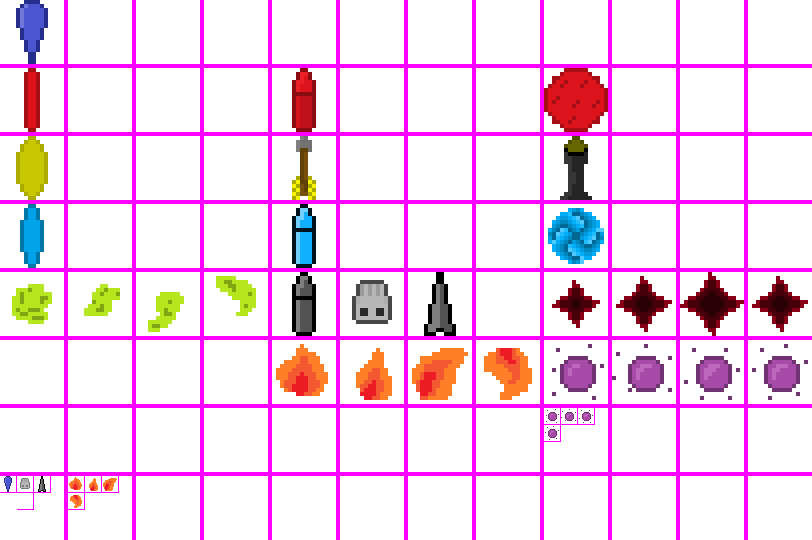
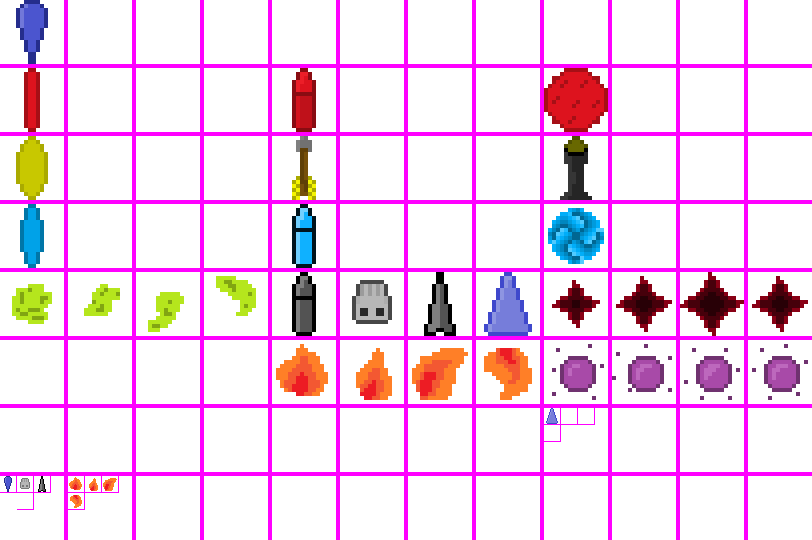
storm orb

Changed region(s): [[0.585, 0.5037, 0.6773, 0.6222], [0.6773, 0.7407, 0.7389, 0.8]]

diff --git a/app/index.html b/app/index.html
@@ -74,6 +74,7 @@
 	<script src="src/gameplay/entities/projectiles/monsterProjectiles/bombotShrapnelProjectile.js"></script>
 	<script src="src/gameplay/entities/projectiles/monsterProjectiles/fireTowerFireProjectile.js"></script>
 	<script src="src/gameplay/entities/projectiles/monsterProjectiles/dartTowerProjectile.js"></script>
+	<script src="src/gameplay/entities/projectiles/monsterProjectiles/stormOrbSpikeProjectile.js"></script>
 	<script src="src/gameplay/entities/projectiles/projectileSpawner.js"></script>
 	<script src="src/gameplay/entities/particles/_particle.js"></script>
 	<script src="src/gameplay/entities/particles/bloodParticle.js"></script>
@@ -101,6 +102,7 @@
 	<script src="src/gameplay/entities/monsters/fireTower.js"></script>
 	<script src="src/gameplay/entities/monsters/dartTower.js"></script>
 	<script src="src/gameplay/entities/monsters/mine.js"></script>
+	<script src="src/gameplay/entities/monsters/stormOrb.js"></script>
 	<script src="src/gameplay/entities/monsters/monsterFactory.js"></script>
 	<script src="src/gameplay/entities/items/_item.js"></script>
 	<script src="src/gameplay/entities/items/healthKit.js"></script>
@@ -135,6 +137,8 @@
 	<script src="src/gameplay/actions/monsterActions/mineDelayedExplosion.js"></script>
 	<script src="src/gameplay/actions/monsterActions/fireTowerFlamethrowerAction.js"></script>
 	<script src="src/gameplay/actions/monsterActions/dartTowerAttack.js"></script>
+	<script src="src/gameplay/actions/monsterActions/genericMonsterDash.js"></script>
+	<script src="src/gameplay/actions/monsterActions/stormOrbSpikeAttack.js"></script>
 	<!-- 	stages 		-->
 	<script src="src/gameplay/stage/stageLoader.js"></script>
 	<script src="src/gameplay/stage/stage.js"></script>

diff --git a/app/src/gameplay/entities/monsters/stormOrb.js b/app/src/gameplay/entities/monsters/stormOrb.js
@@ -1,0 +1,52 @@
+"use strict";
+class StormOrb extends _Monster {
+
+    constructor(){
+        super();
+        this.tileX = Util.randInt(4, 7);
+        this.tileY = 2;
+        this.maxHp = Util.randInt(30, 40);
+        this.displaySize = Util.randFloat(0.9, 1.1);
+        this.defence = 35;
+        this.speed = Util.randFloat(0.015, 0.017);
+        this.opacity = 0.8;
+
+        this.dash = new GenericMonsterDash(this, 0.2, 12, 1200);
+        this.spikeAttack = new StormOrbSpikeAttack(this);
+    }
+
+    _onDamaged(d){
+        super._onDamaged(d);
+        ParticleSpawner.createExplosion(CyanSparkParticle, this.x, this.y, Util.randInt(0, d/2));
+
+    }
+
+    _onExpire(){
+        super._onExpire();
+        ParticleSpawner.createExplosion(CyanSparkParticle, this.x, this.y, Util.randInt(20, 30));
+    }
+
+    _doExist(thisEntity){
+        var p = StageManager.currentStage.player;
+        var dir = thisEntity.getDirectionToPoint(p.x, p.y);
+        var dist = thisEntity.getDistanceToPoint(p.x, p.y);
+
+        if(Util.chance(0.05)){
+            ParticleSpawner.createExplosion(CyanSparkParticle, thisEntity.x, thisEntity.y, Util.randInt(2, 5));
+        }
+        
+        if(dist < 9) {
+            thisEntity.dash.execute(dir + Util.randFloat(-110, 110));
+            thisEntity.spikeAttack.execute();
+        }
+
+        if(dist > 4) {
+            thisEntity.travel(dir);
+        } 
+
+        thisEntity.turn(dir);
+        thisEntity.checkForInWall();
+        thisEntity.doCheckCollisions();
+    }
+
+}

diff --git a/app/src/gameplay/actions/monsterActions/ghostDrainAttack.js b/app/src/gameplay/actions/monsterActions/ghostDrainAttack.js
@@ -7,15 +7,9 @@ class GhostDrainAttack extends _Action {
     }
 
     onSuccess(){
-        this.doOnDelay(a => {
-            ProjectileSpawner.spawn(GhostDrainProjectile, a.user, a.user.x, a.user.y, a.user.direction);
-        }, 50);
-        this.doOnDelay(a => {
-            ProjectileSpawner.spawn(GhostDrainProjectile, a.user, a.user.x, a.user.y, a.user.direction + 15);
-        }, 200);
-        this.doOnDelay(a => {
-            ProjectileSpawner.spawn(GhostDrainProjectile, a.user, a.user.x, a.user.y, a.user.direction - 15);
-        }, 200);
+        ProjectileSpawner.spawn(GhostDrainProjectile, this.user, this.user.x, this.user.y, this.user.direction);
+        ProjectileSpawner.spawn(GhostDrainProjectile, this.user, this.user.x, this.user.y, this.user.direction + 15);
+        ProjectileSpawner.spawn(GhostDrainProjectile, this.user, this.user.x, this.user.y, this.user.direction - 15);
     }
 
 }

diff --git a/app/src/gameplay/entities/projectiles/monsterProjectiles/stormOrbSpikeProjectile.js b/app/src/gameplay/entities/projectiles/monsterProjectiles/stormOrbSpikeProjectile.js
@@ -1,0 +1,26 @@
+"use strict";
+class StormOrbSpikeProjectile extends _DamagingProjectile {
+
+    constructor(parentEntity, direction, x, y){
+        super(parentEntity, direction, x, y);
+
+        this.speed = 0.12
+        this.minDmg = 10;
+        this.maxDmg = 15;
+        this.duration = Util.randInt(70, 90);
+        this.accuracy = 97;
+    
+        this.tileX = 7;
+        this.tileY = 4;
+        
+        this.collisionSize = 0.2;
+        this.displaySize = 0.6;
+        this.collidesPlayer = true;
+    }
+
+    _onExpire(){
+        super._onExpire();
+        ParticleSpawner.createExplosion(CyanSparkParticle,  this.x, this.y, Util.randInt(5, 10));
+    }
+
+}

diff --git a/app/src/gameplay/entities/monsters/monsterFactory.js b/app/src/gameplay/entities/monsters/monsterFactory.js
@@ -15,6 +15,7 @@ const MonsterFactory = {
         10: FireTower,
         11: DartTower,
         12: Mine,
+        13: StormOrb,
 
         default : Zombie
     },
@@ -27,7 +28,7 @@ const MonsterFactory = {
     getMonster(id, x, y){
         
         // TODO REMOVE TEST
-        id = Util.randInt(0, 12);
+        id = Util.randInt(0, 13);
 
         var monsterClass = this._monsterTypeDict[id] ? this._monsterTypeDict[id] : this._monsterTypeDict.default;
         var monster = new monsterClass();

diff --git a/app/src/gameplay/actions/monsterActions/stormOrbSpikeAttack.js b/app/src/gameplay/actions/monsterActions/stormOrbSpikeAttack.js
@@ -1,0 +1,14 @@
+"use strict";
+class StormOrbSpikeAttack extends _Action {
+
+    constructor(user){
+        super(user);
+        this.cooldownDuration = 3000;
+    }
+
+    onSuccess(){
+        ProjectileSpawner.spawn(StormOrbSpikeProjectile, this.user, this.user.x, this.user.y, this.user.direction + 5);
+        ProjectileSpawner.spawn(StormOrbSpikeProjectile, this.user, this.user.x, this.user.y, this.user.direction - 5);
+    }
+
+}

diff --git a/app/src/gameplay/actions/monsterActions/genericMonsterDash.js b/app/src/gameplay/actions/monsterActions/genericMonsterDash.js
@@ -1,0 +1,16 @@
+"use strict";
+class GenericMonsterDash extends _Action {
+
+    constructor(user, speed, duration, cooldown){
+        super(user);
+        this.speed = speed;
+        this.duration = duration;
+        this.cooldownDuration = cooldown;
+    }
+
+    onSuccess(...args){
+        // args[0] - direction 
+        this.user.applyPushback(args[0], this.speed, this.duration);
+    }
+
+}
